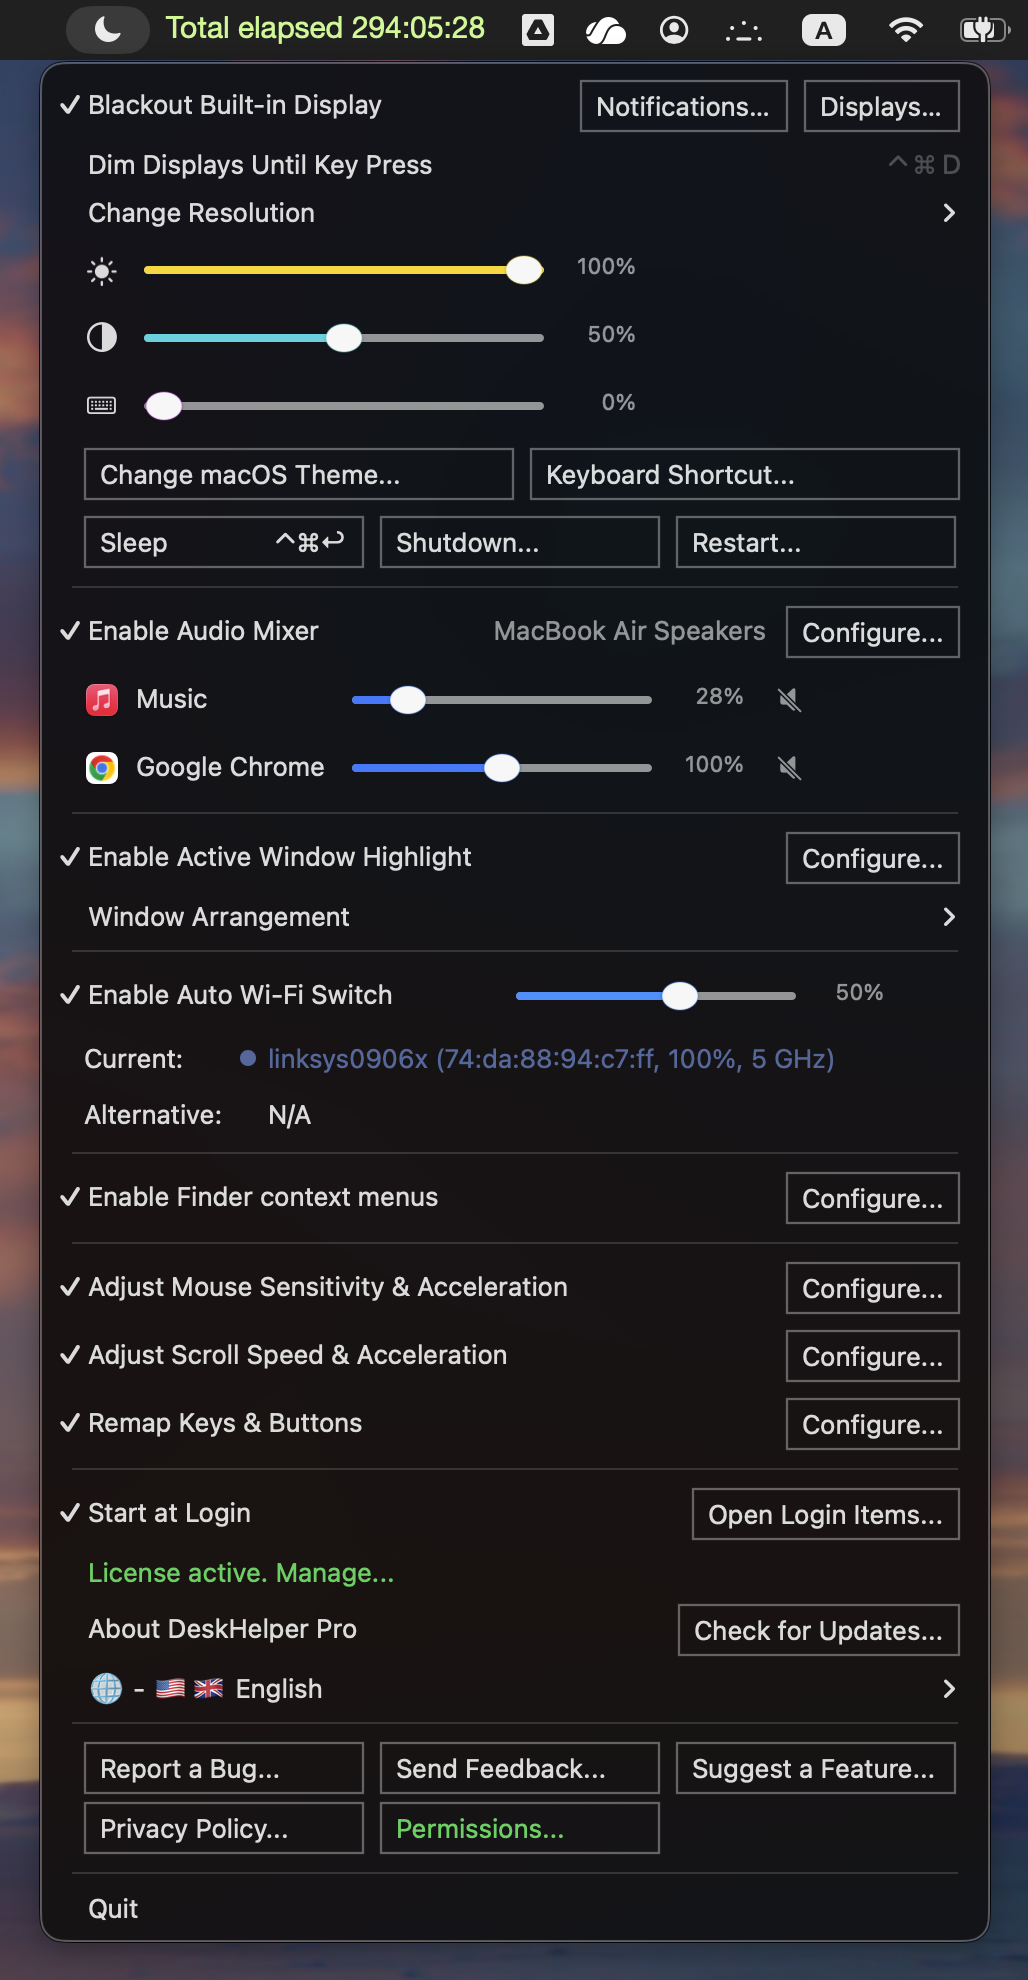
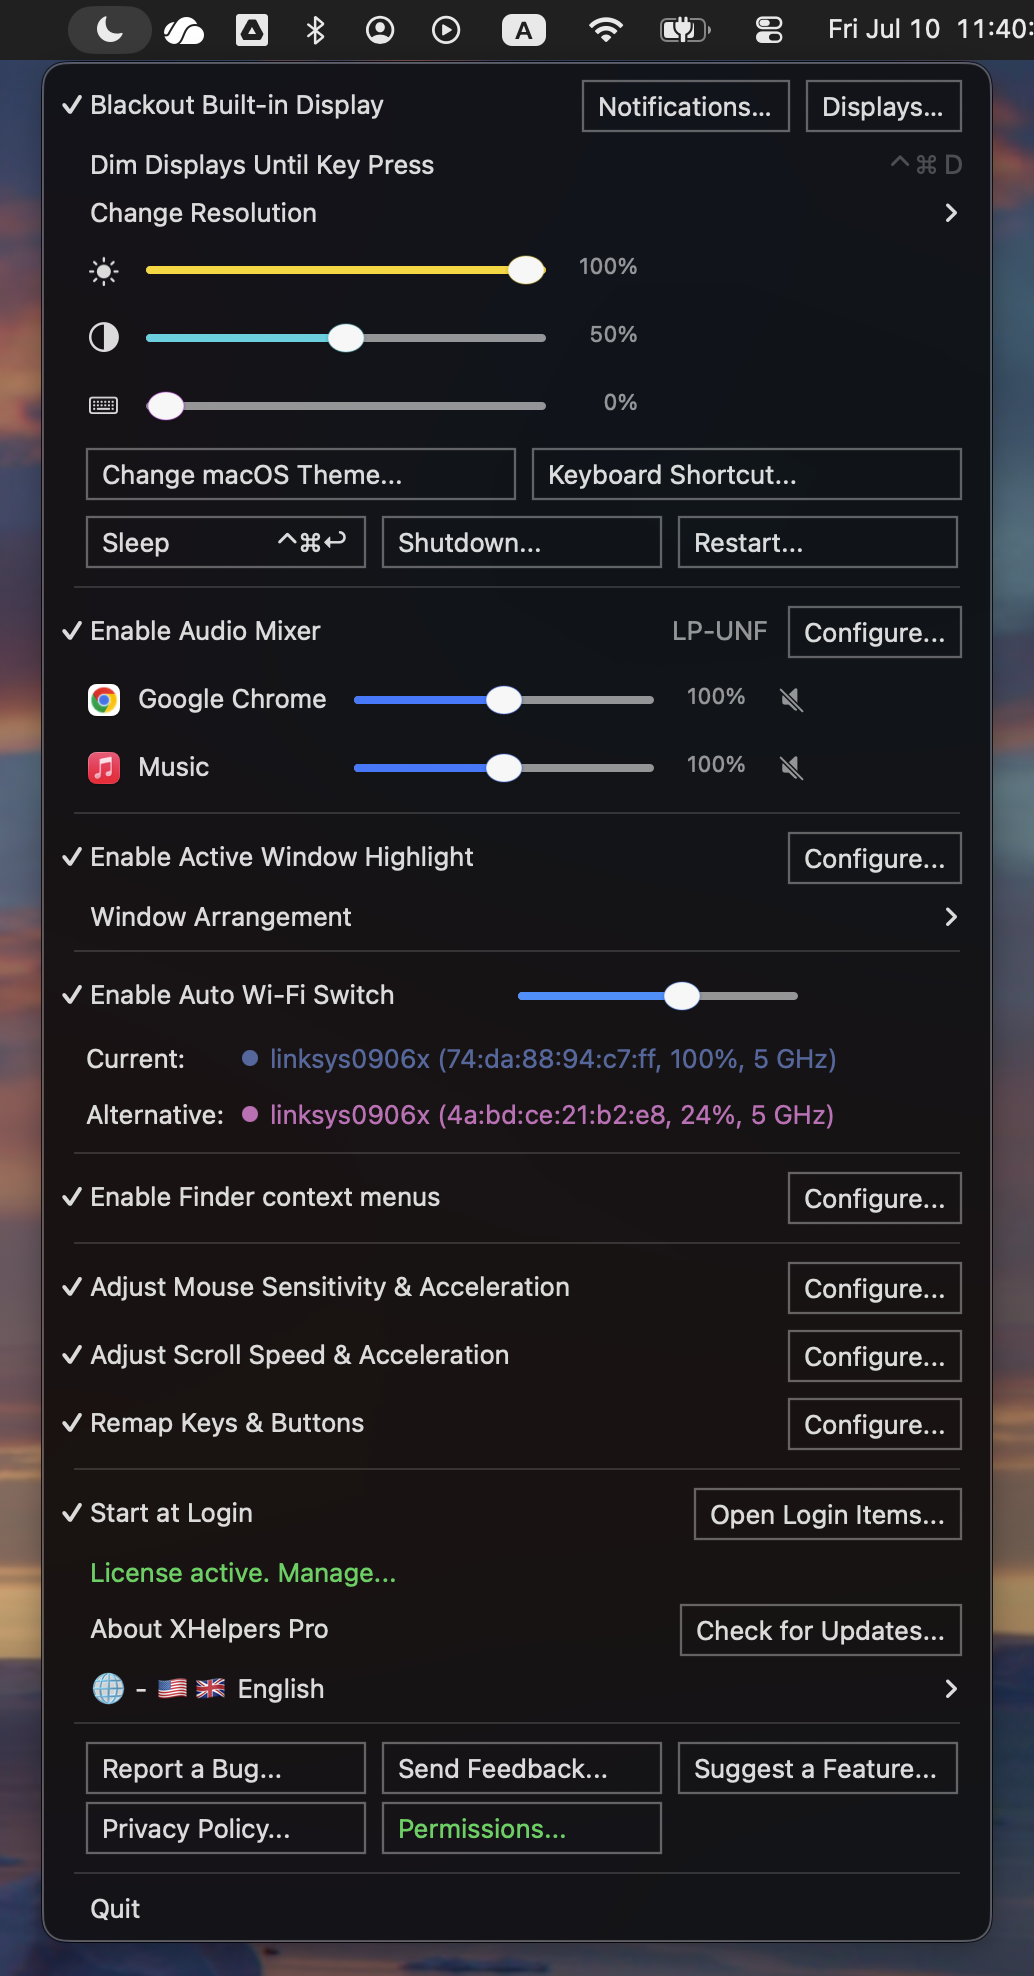
XHelpers Pro: replace main-menu screenshot with XHelpers Pro capture

diff --git a/XHelpersPro/ar/index.html b/XHelpersPro/ar/index.html
@@ -446,7 +446,7 @@
           </div>
           <div class="pvg-shots">
             <figure>
-              <img src="../assets/deskhelperpro-menu.png?v=20260704" width="1028" height="1980" loading="lazy" alt="القائمة الرئيسية">
+              <img src="../assets/deskhelperpro-menu.png?v=20260711" width="1034" height="1976" loading="lazy" alt="القائمة الرئيسية">
               <figcaption>القائمة الرئيسية</figcaption>
             </figure>
             <figure>

diff --git a/XHelpersPro/compact.html b/XHelpersPro/compact.html
@@ -114,9 +114,9 @@
           </div>
           <figure class="menu-screenshot">
             <img
-              src="assets/deskhelperpro-menu.png?v=20260704"
-              width="942"
-              height="1336"
+              src="assets/deskhelperpro-menu.png?v=20260711"
+              width="1034"
+              height="1976"
               loading="lazy"
               decoding="async"
               alt="XHelpers Pro menu showing display controls, Auto Wi-Fi Switch, license, privacy, and quit."

diff --git a/XHelpersPro/hi/index.html b/XHelpersPro/hi/index.html
@@ -446,7 +446,7 @@
           </div>
           <div class="pvg-shots">
             <figure>
-              <img src="../assets/deskhelperpro-menu.png?v=20260704" width="1028" height="1980" loading="lazy" alt="मुख्य मेनू">
+              <img src="../assets/deskhelperpro-menu.png?v=20260711" width="1034" height="1976" loading="lazy" alt="मुख्य मेनू">
               <figcaption>मुख्य मेनू</figcaption>
             </figure>
             <figure>

diff --git a/XHelpersPro/th/index.html b/XHelpersPro/th/index.html
@@ -446,7 +446,7 @@
           </div>
           <div class="pvg-shots">
             <figure>
-              <img src="../assets/deskhelperpro-menu.png?v=20260704" width="1028" height="1980" loading="lazy" alt="เมนูหลัก">
+              <img src="../assets/deskhelperpro-menu.png?v=20260711" width="1034" height="1976" loading="lazy" alt="เมนูหลัก">
               <figcaption>เมนูหลัก</figcaption>
             </figure>
             <figure>

diff --git a/XHelpersPro/ru/index.html b/XHelpersPro/ru/index.html
@@ -446,7 +446,7 @@
           </div>
           <div class="pvg-shots">
             <figure>
-              <img src="../assets/deskhelperpro-menu.png?v=20260704" width="1028" height="1980" loading="lazy" alt="Главное меню">
+              <img src="../assets/deskhelperpro-menu.png?v=20260711" width="1034" height="1976" loading="lazy" alt="Главное меню">
               <figcaption>Главное меню</figcaption>
             </figure>
             <figure>

diff --git a/XHelpersPro/uk/index.html b/XHelpersPro/uk/index.html
@@ -446,7 +446,7 @@
           </div>
           <div class="pvg-shots">
             <figure>
-              <img src="../assets/deskhelperpro-menu.png?v=20260704" width="1028" height="1980" loading="lazy" alt="Головне меню">
+              <img src="../assets/deskhelperpro-menu.png?v=20260711" width="1034" height="1976" loading="lazy" alt="Головне меню">
               <figcaption>Головне меню</figcaption>
             </figure>
             <figure>

diff --git a/XHelpersPro/ja/index.html b/XHelpersPro/ja/index.html
@@ -446,7 +446,7 @@
           </div>
           <div class="pvg-shots">
             <figure>
-              <img src="../assets/deskhelperpro-menu.png?v=20260704" width="1028" height="1980" loading="lazy" alt="メインメニュー">
+              <img src="../assets/deskhelperpro-menu.png?v=20260711" width="1034" height="1976" loading="lazy" alt="メインメニュー">
               <figcaption>メインメニュー</figcaption>
             </figure>
             <figure>

diff --git a/XHelpersPro/cs/index.html b/XHelpersPro/cs/index.html
@@ -446,7 +446,7 @@
           </div>
           <div class="pvg-shots">
             <figure>
-              <img src="../assets/deskhelperpro-menu.png?v=20260704" width="1028" height="1980" loading="lazy" alt="Hlavní nabídka">
+              <img src="../assets/deskhelperpro-menu.png?v=20260711" width="1034" height="1976" loading="lazy" alt="Hlavní nabídka">
               <figcaption>Hlavní nabídka</figcaption>
             </figure>
             <figure>

diff --git a/XHelpersPro/es/index.html b/XHelpersPro/es/index.html
@@ -446,7 +446,7 @@
           </div>
           <div class="pvg-shots">
             <figure>
-              <img src="../assets/deskhelperpro-menu.png?v=20260704" width="1028" height="1980" loading="lazy" alt="Menú principal">
+              <img src="../assets/deskhelperpro-menu.png?v=20260711" width="1034" height="1976" loading="lazy" alt="Menú principal">
               <figcaption>Menú principal</figcaption>
             </figure>
             <figure>

diff --git a/XHelpersPro/it/index.html b/XHelpersPro/it/index.html
@@ -446,7 +446,7 @@
           </div>
           <div class="pvg-shots">
             <figure>
-              <img src="../assets/deskhelperpro-menu.png?v=20260704" width="1028" height="1980" loading="lazy" alt="Menu principale">
+              <img src="../assets/deskhelperpro-menu.png?v=20260711" width="1034" height="1976" loading="lazy" alt="Menu principale">
               <figcaption>Menu principale</figcaption>
             </figure>
             <figure>

diff --git a/XHelpersPro/fr/index.html b/XHelpersPro/fr/index.html
@@ -446,7 +446,7 @@
           </div>
           <div class="pvg-shots">
             <figure>
-              <img src="../assets/deskhelperpro-menu.png?v=20260704" width="1028" height="1980" loading="lazy" alt="Menu principal">
+              <img src="../assets/deskhelperpro-menu.png?v=20260711" width="1034" height="1976" loading="lazy" alt="Menu principal">
               <figcaption>Menu principal</figcaption>
             </figure>
             <figure>

diff --git a/XHelpersPro/pt-BR/index.html b/XHelpersPro/pt-BR/index.html
@@ -446,7 +446,7 @@
           </div>
           <div class="pvg-shots">
             <figure>
-              <img src="../assets/deskhelperpro-menu.png?v=20260704" width="1028" height="1980" loading="lazy" alt="Menu principal">
+              <img src="../assets/deskhelperpro-menu.png?v=20260711" width="1034" height="1976" loading="lazy" alt="Menu principal">
               <figcaption>Menu principal</figcaption>
             </figure>
             <figure>
